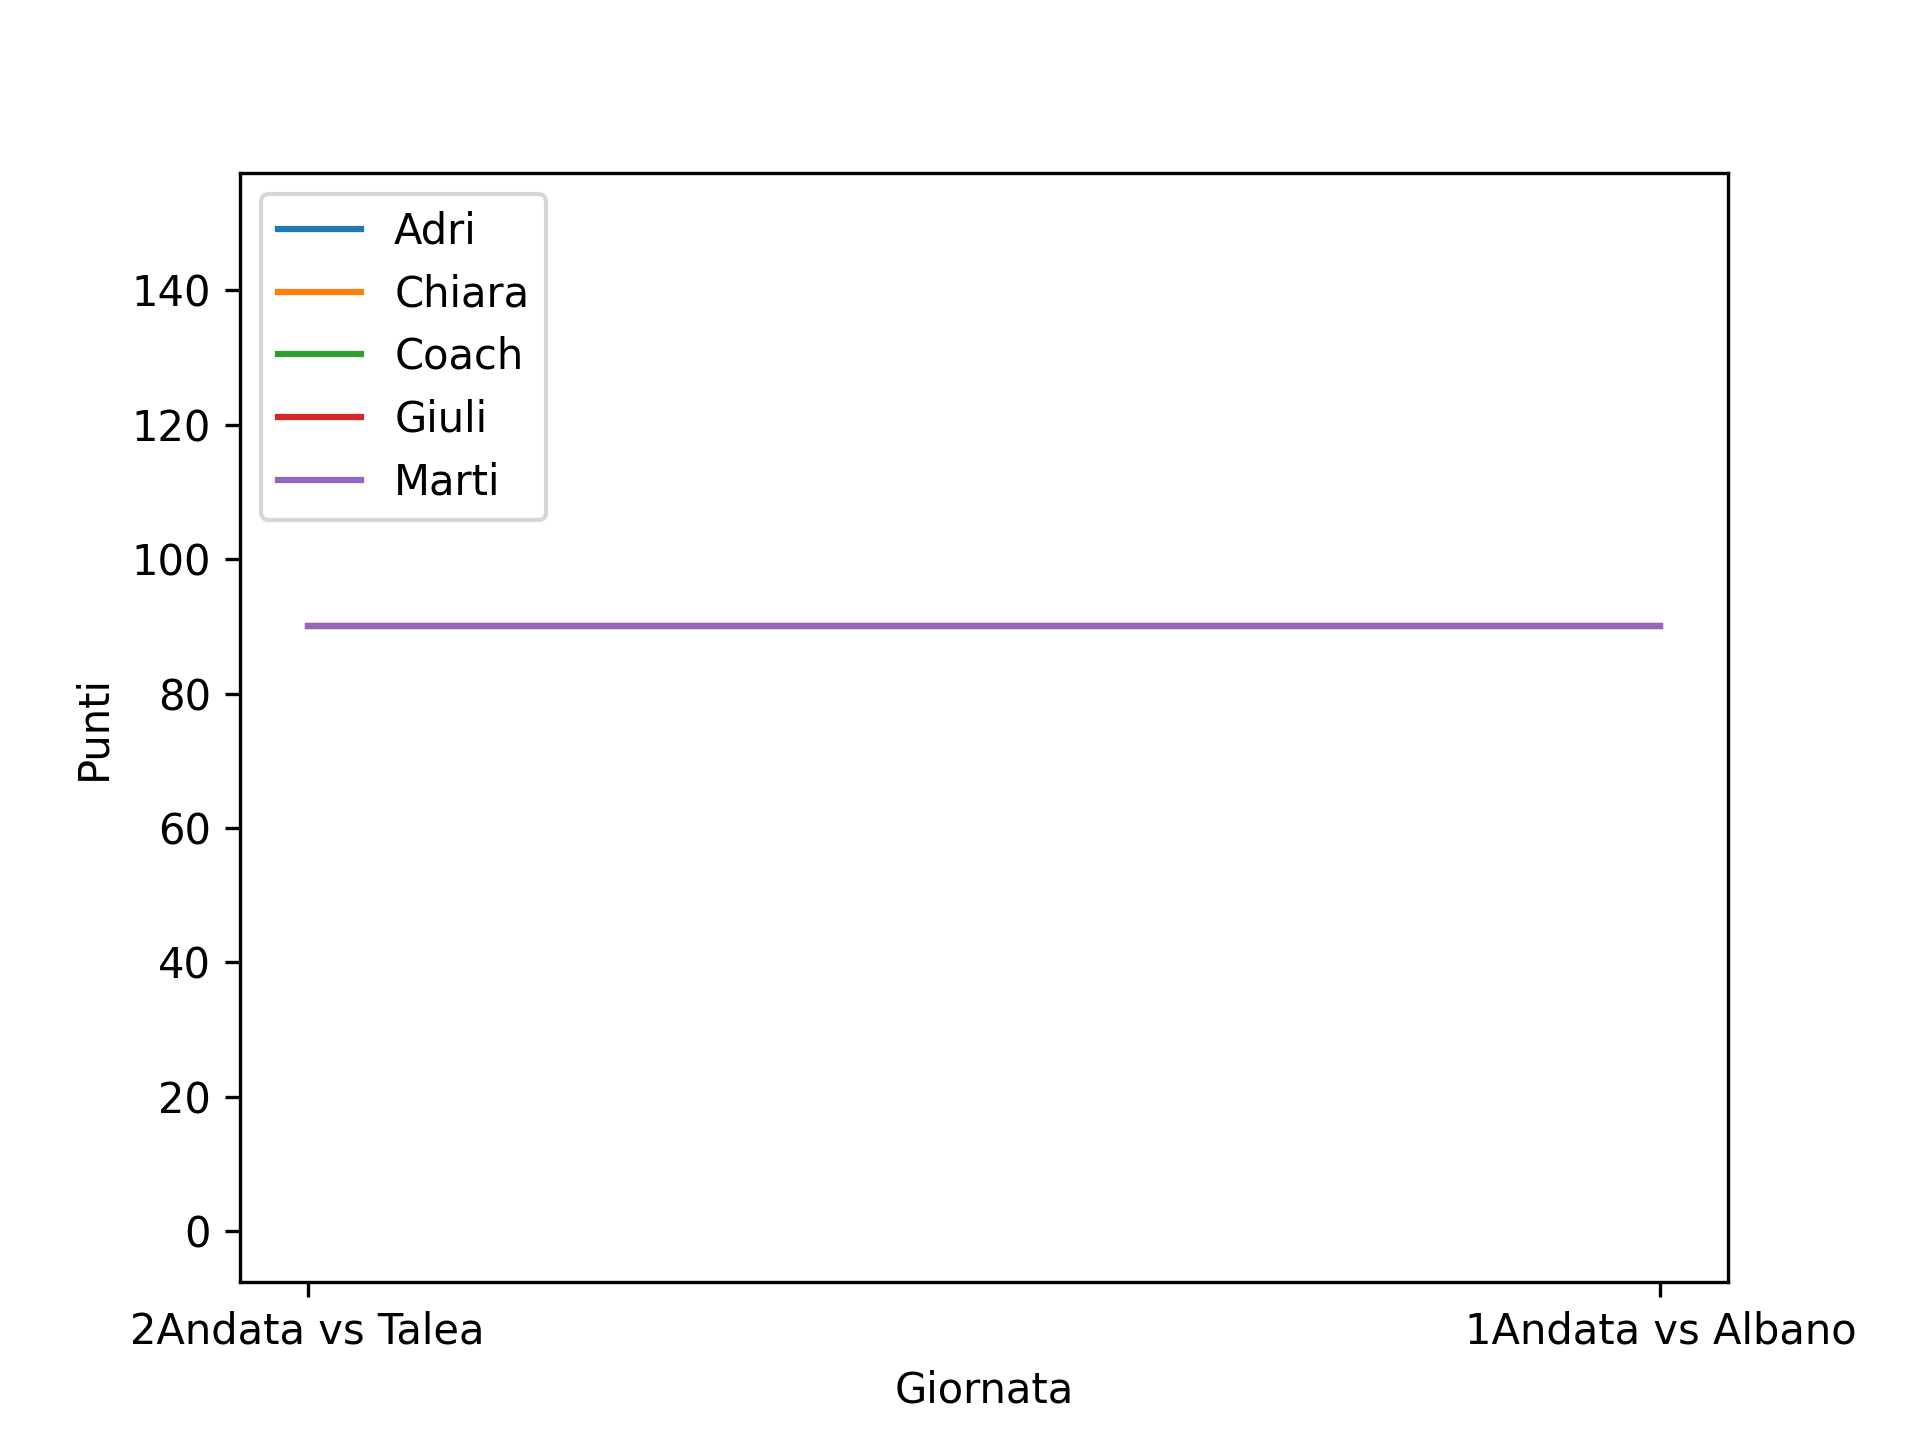
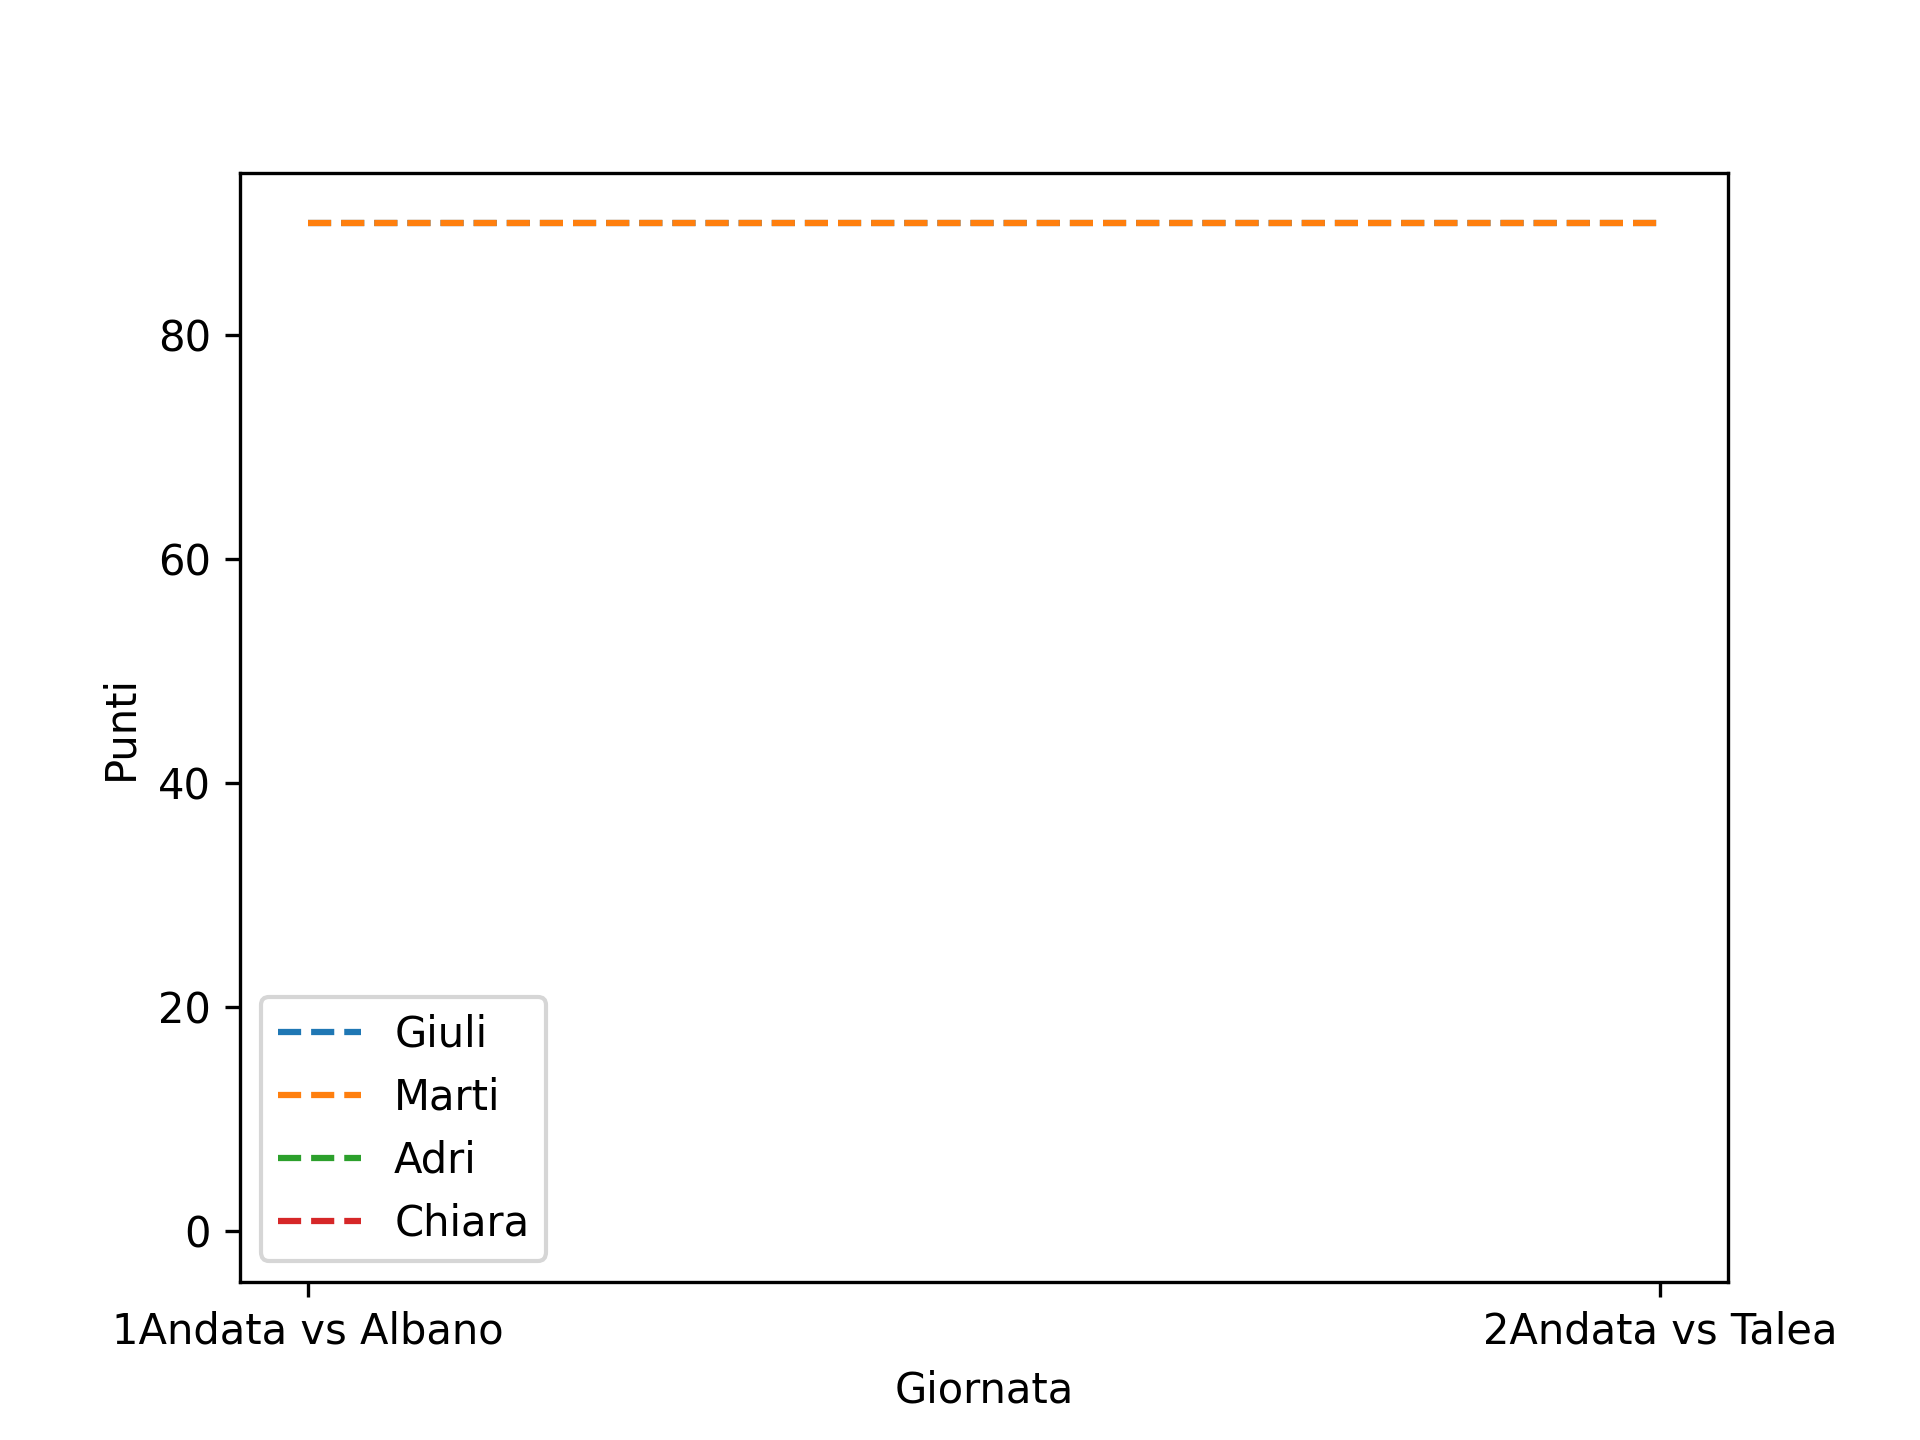
Viz: imporve plot

diff --git a/data_utils.py b/data_utils.py
@@ -81,11 +81,11 @@ def plot_most_selected_players(df: pd.DataFrame, save:bool=True):
 
 def plot_trend_points(df):
     df = df.loc[df["Name"] != "Coach", :]
-    df = df.sort_values(["Name", "Timestamp"])
+    df = df.sort_values(["Timestamp", "Name"])
     fig, ax = plt.subplots()
 
     for name in df.Name.unique():
-        ax.plot(df[df.Name == name].Date, df[df.Name == name].cumulative_points, label=name)
+        ax.plot(df[df.Name == name].Date, df[df.Name == name].cumulative_points, label=name, linestyle="dashed")
 
     ax.set_xlabel("Giornata")
     ax.set_ylabel("Punti")
